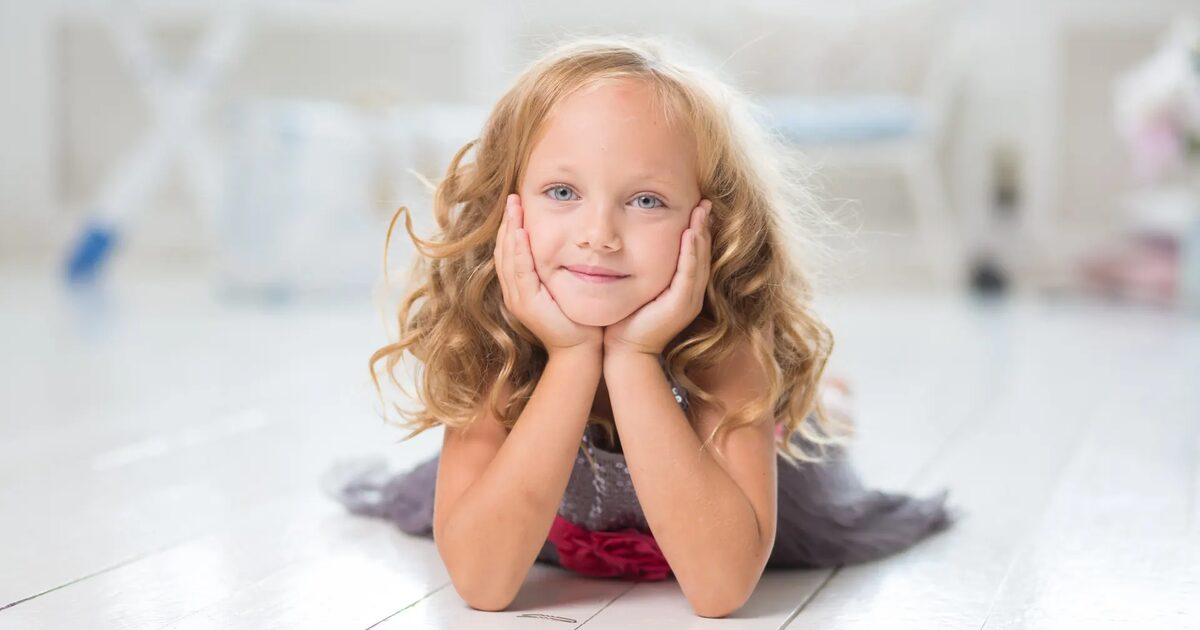
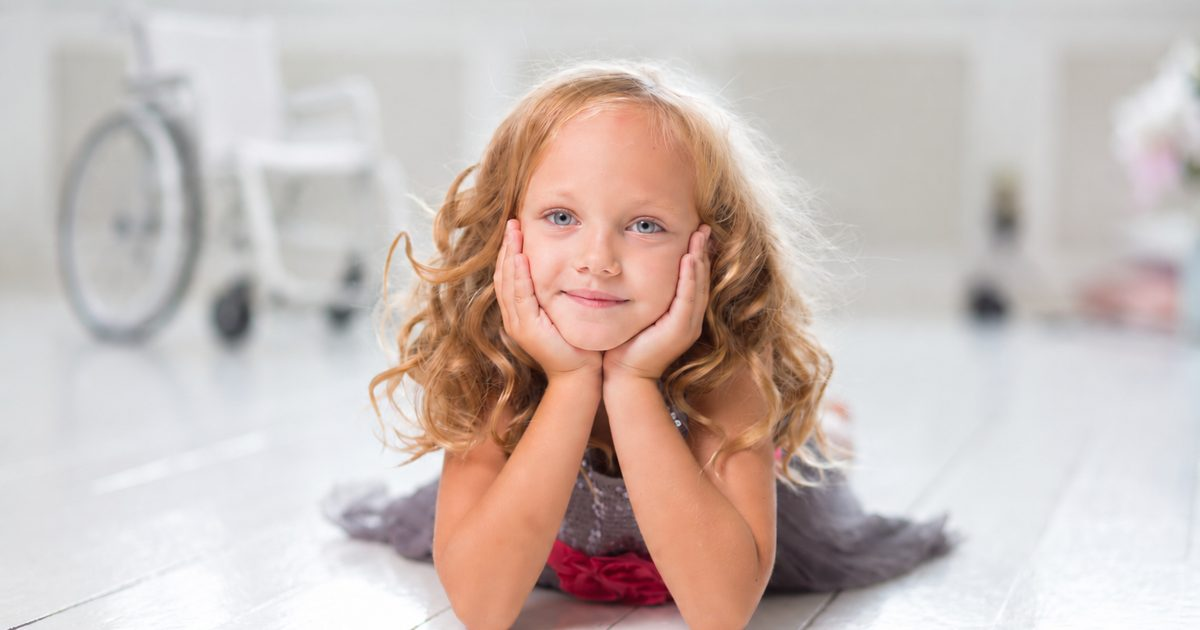
Replace the home page hero photo with the girl and the wheelchair
The new photo is 1536 px wide, so the hero now ships 1024 and 1536 px
WebP variants instead of the 1280/1920/2560 px ones, and the link
preview image is cut from it again.

Claude-Session: https://claude.ai/code/session_015vjdYZAbeRWYQPX9o7CQbH

diff --git a/frontend/src/app/features/content/home/sections/hero/hero.spec.ts b/frontend/src/app/features/content/home/sections/hero/hero.spec.ts
@@ -17,9 +17,9 @@ describe('Given the hero', () => {
   it('when it renders, then its photo loads first, in the width the screen needs', () => {
     const image = (fixture.nativeElement as HTMLElement).querySelector('img')!;
 
-    expect(image.getAttribute('src')).toBe('/images/hero-1920.webp');
+    expect(image.getAttribute('src')).toBe('/images/hero-1536.webp');
     expect(image.getAttribute('srcset')!.replace(/\s+/g, ' ').trim()).toBe(
-      '/images/hero-1280.webp 1280w, /images/hero-1920.webp 1920w, /images/hero-2560.webp 2560w',
+      '/images/hero-1024.webp 1024w, /images/hero-1536.webp 1536w',
     );
     expect(image.getAttribute('sizes')).toBe('max(100vw, 150vh, 900px)');
     expect(image.getAttribute('fetchpriority')).toBe('high');

diff --git a/frontend/src/app/features/content/home/sections/hero/hero.html b/frontend/src/app/features/content/home/sections/hero/hero.html
@@ -1,15 +1,11 @@
 <section id="uvod" class="hero">
   <img
     fetchpriority="high"
-    srcset="
-      /images/hero-1280.webp 1280w,
-      /images/hero-1920.webp 1920w,
-      /images/hero-2560.webp 2560w
-    "
+    srcset="/images/hero-1024.webp 1024w, /images/hero-1536.webp 1536w"
     sizes="max(100vw, 150vh, 900px)"
-    src="/images/hero-1920.webp"
-    width="1920"
-    height="1280"
+    src="/images/hero-1536.webp"
+    width="1536"
+    height="1024"
     alt=""
     class="real-img hero-img"
   />

diff --git a/docs/frontend-overview.md b/docs/frontend-overview.md
@@ -68,7 +68,7 @@ What the Angular app contains today and the details a change must keep. The rule
 ## Theme, fonts, assets
 
 - `src/styles/themes/_nova-nadeje.scss` declares the `@font-face` rules and every token on `:root` (inventory in `frontend.md`). Fonts: Playfair Display and Inter as self-hosted variable WOFF2 (latin and latin-ext from Fontsource, OFL licences beside them in `src/styles/themes/fonts/`); the build hashes them into `/media/`, which nginx caches as immutable. `npm run lint:styles` fails on a raw colour, `font-family`, `border-radius` or shadow outside the theme.
-- `public/images/`: hero in 1280/1920/2560 px with `srcset`, `sizes="max(100vw, 150vh, 900px)"` and `fetchpriority="high"`; about and donate in 720/1440 px; project and news cards at 600 px; every photo below the hero has `loading="lazy"` written before `src`/`srcset` (Angular sets attributes in template order) plus `width`/`height`, so photos hidden on phones are never downloaded there. Convert a new photo with Pillow or `cwebp` at quality about 78; no file is kept that no template names.
+- `public/images/`: hero in 1024/1536 px with `srcset` (the source photo is 1536 px wide, so wider screens scale it up), `sizes="max(100vw, 150vh, 900px)"` and `fetchpriority="high"`; about and donate in 720/1440 px; project and news cards at 600 px; every photo below the hero has `loading="lazy"` written before `src`/`srcset` (Angular sets attributes in template order) plus `width`/`height`, so photos hidden on phones are never downloaded there. Convert a new photo with Pillow or `cwebp` at quality about 78; no file is kept that no template names.
 - Icons: `favicon.svg` is the logo's star in a square viewBox 840 units wide, strokes 64 (face 52), white fill; its `<style>` hides the face (`g.face`) at 24 px or less (Chromium measures CSS px, so a 16 px image has no face on a 2x screen either; `e2e/home-assets.spec.ts`). `favicon.ico` holds 16, 32 and 48 px renders; `apple-touch-icon.png` is 180 px, viewBox 1060 wide (wider margin for iOS rounding), stroke 40 (face 32) on opaque white. The cloud ImageMagick has no SVG renderer: render with Playwright's Chromium (`omitBackground`) and pack with `convert 16.png 32.png 48.png favicon.ico`.
 
 ## Tests
